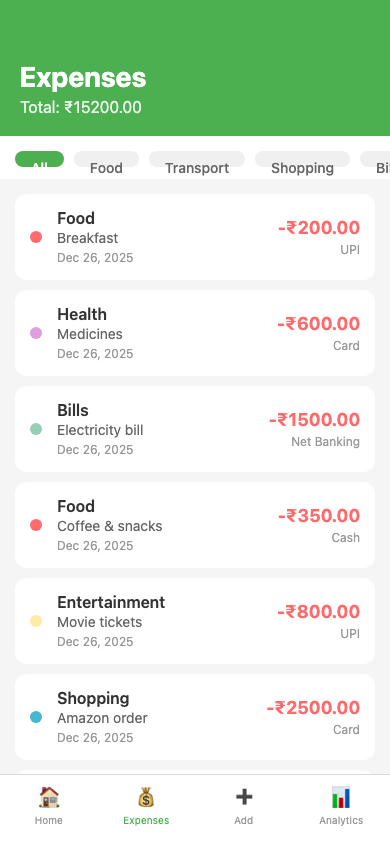
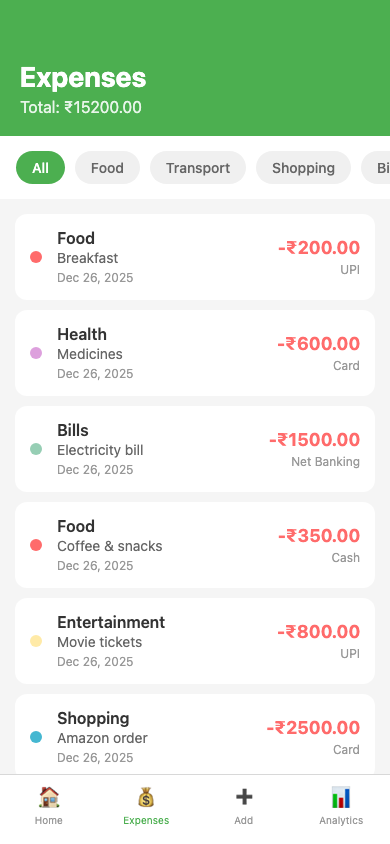
Fix category filter chips using ScrollView

diff --git a/frontend/src/screens/ExpensesScreen.js b/frontend/src/screens/ExpensesScreen.js
@@ -1,5 +1,5 @@
 import React, { useState } from 'react';
-import { View, Text, StyleSheet, FlatList, TouchableOpacity, Alert } from 'react-native';
+import { View, Text, StyleSheet, FlatList, TouchableOpacity, Alert, ScrollView } from 'react-native';
 import { useExpense } from '../context/ExpenseContext';
 
 const CATEGORIES = ['All', 'Food', 'Transport', 'Shopping', 'Bills', 'Entertainment', 'Health', 'Education', 'Other'];
@@ -60,22 +60,23 @@ export default function ExpensesScreen({ navigation, route }) {
         <Text style={styles.total}>Total: ₹{totalFiltered.toFixed(2)}</Text>
       </View>
 
-      <FlatList
-        horizontal
-        data={CATEGORIES}
-        keyExtractor={(item) => item}
-        showsHorizontalScrollIndicator={false}
-        style={styles.categoryFilter}
-        contentContainerStyle={{ paddingHorizontal: 15 }}
-        renderItem={({ item }) => (
-          <TouchableOpacity
-            style={[styles.filterChip, selectedCategory === item && styles.filterChipActive]}
-            onPress={() => setSelectedCategory(item)}
-          >
-            <Text style={[styles.filterText, selectedCategory === item && styles.filterTextActive]}>{item}</Text>
-          </TouchableOpacity>
-        )}
-      />
+      <View style={styles.categoryContainer}>
+        <ScrollView
+          horizontal
+          showsHorizontalScrollIndicator={false}
+          contentContainerStyle={styles.categoryContent}
+        >
+          {CATEGORIES.map((item) => (
+            <TouchableOpacity
+              key={item}
+              style={[styles.filterChip, selectedCategory === item && styles.filterChipActive]}
+              onPress={() => setSelectedCategory(item)}
+            >
+              <Text style={[styles.filterText, selectedCategory === item && styles.filterTextActive]}>{item}</Text>
+            </TouchableOpacity>
+          ))}
+        </ScrollView>
+      </View>
 
       <FlatList
         data={filteredExpenses}
@@ -99,8 +100,9 @@ const styles = StyleSheet.create({
   header: { backgroundColor: '#4CAF50', padding: 20, paddingTop: 60 },
   title: { fontSize: 28, fontWeight: 'bold', color: '#fff' },
   total: { fontSize: 16, color: '#E8F5E9', marginTop: 5 },
-  categoryFilter: { backgroundColor: '#fff', paddingVertical: 15 },
-  filterChip: { paddingHorizontal: 16, paddingVertical: 8, marginHorizontal: 5, borderRadius: 20, backgroundColor: '#f0f0f0' },
+  categoryContainer: { backgroundColor: '#fff', paddingVertical: 15 },
+  categoryContent: { paddingHorizontal: 16, flexDirection: 'row', alignItems: 'center' },
+  filterChip: { paddingHorizontal: 16, paddingVertical: 8, marginRight: 10, borderRadius: 20, backgroundColor: '#f0f0f0' },
   filterChipActive: { backgroundColor: '#4CAF50' },
   filterText: { color: '#666', fontWeight: '500' },
   filterTextActive: { color: '#fff' },
